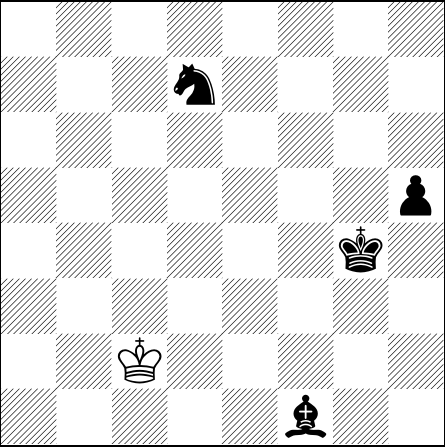
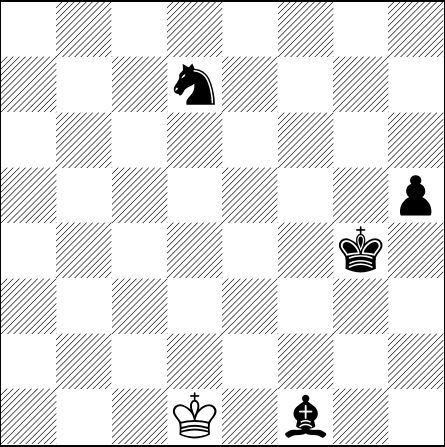
[automated] Regenerate text/pdf for chessboard

Changed region(s): [[0.3798, 0.8725, 0.4966, 0.9888], [0.2629, 0.7562, 0.3798, 0.8725]]

diff --git a/default_filepath.tex b/default_filepath.tex
@@ -13,6 +13,6 @@
 \normalsize%
 \setchessboard{showmover=false}%
 \newgame%
-\fenboard{8/3n4/8/7p/6k1/8/2K5/5b2 w - - 2 181}%
+\fenboard{8/3n4/8/7p/6k1/8/8/3K1b2 b - - 3 181}%
 \chessboard%
 \end{document}
